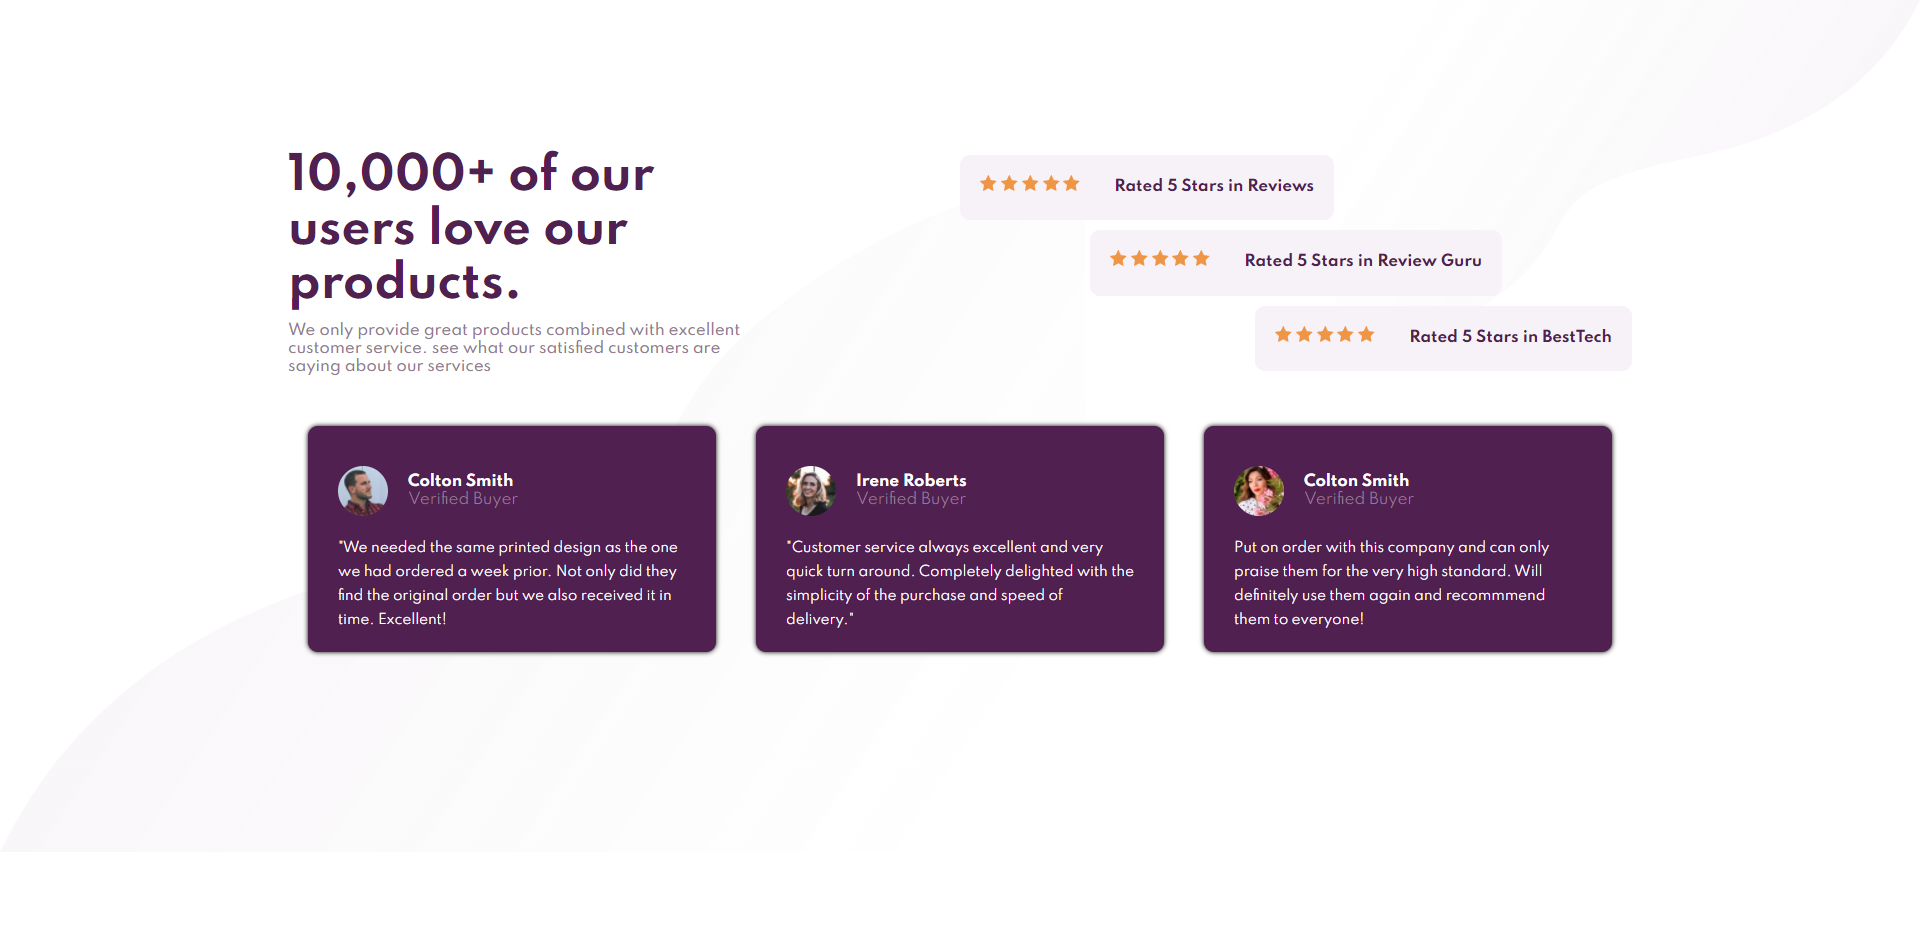
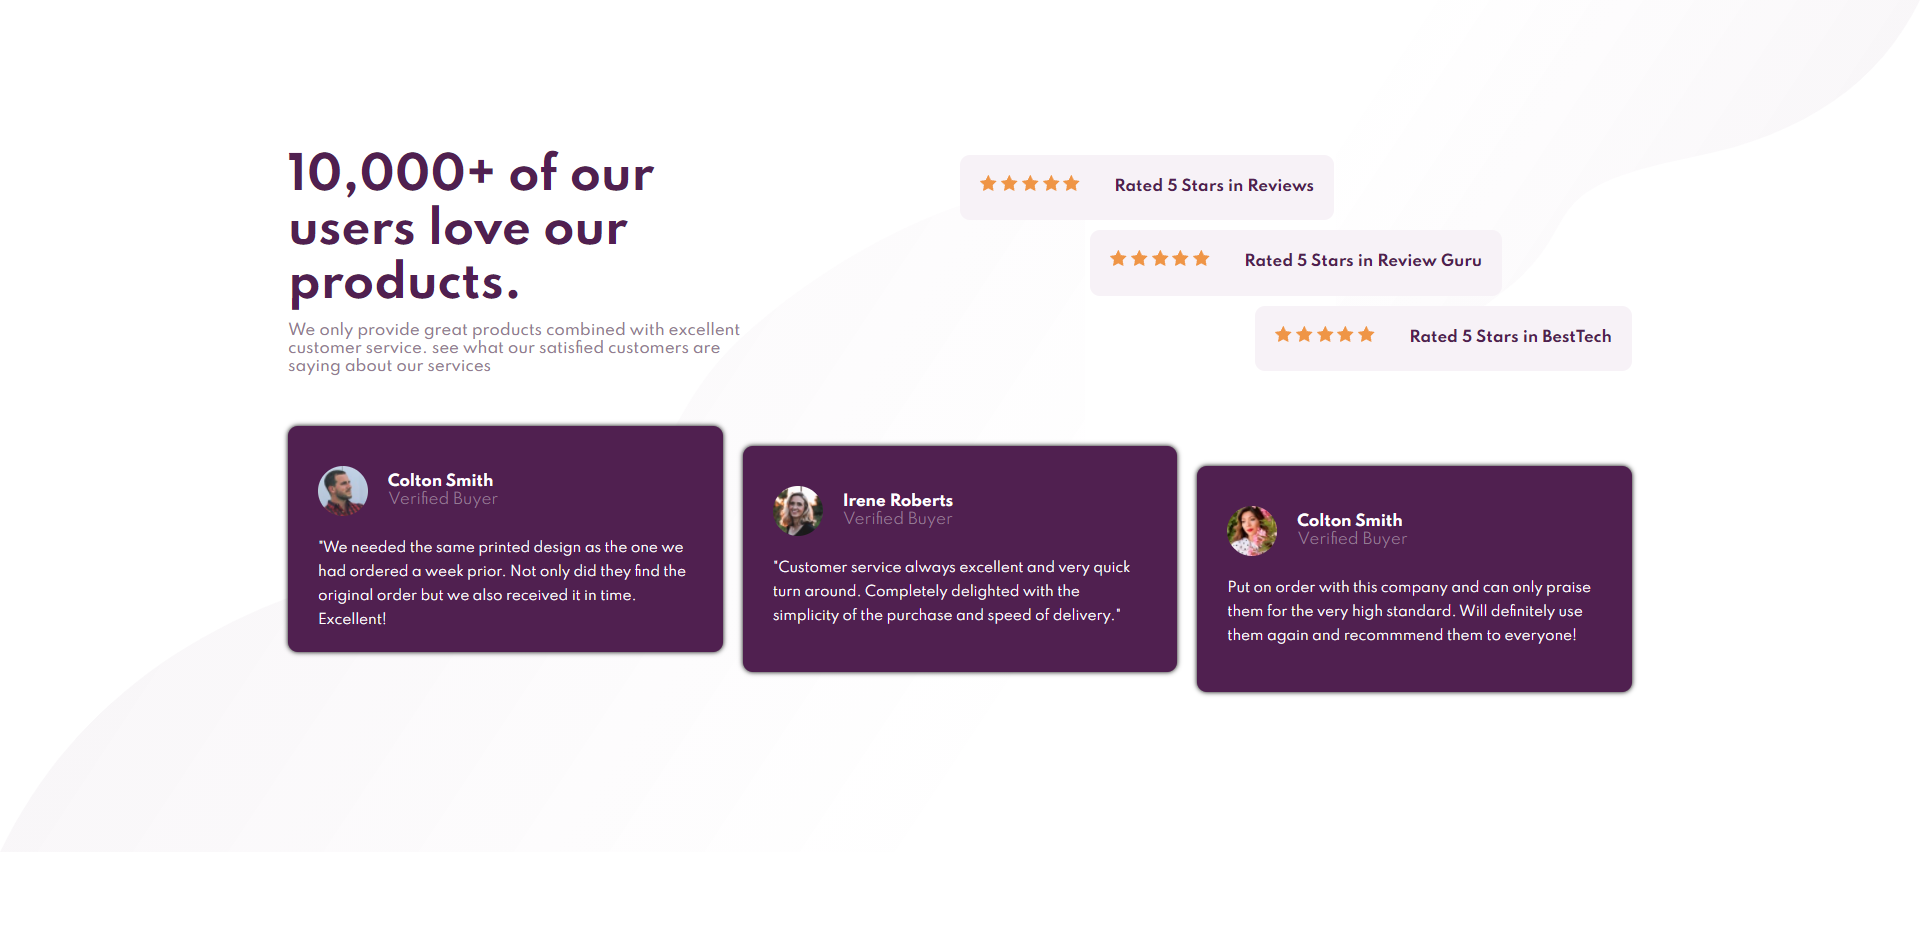
updated screenshot, redme, and minor fix on card below

Changed region(s): [[0.125, 0.4333, 0.875, 0.7428]]

diff --git a/index.html b/index.html
@@ -64,19 +64,18 @@
       </div>
     </header>
     <main>
-      <div class="card-proof">
+      <div class="card-proof proof1">
         <div class="card-holder">
           <img src="images/image-colton.jpg" alt="">
           <div class="people-name">
             <span class="name">Colton Smith</span>
             <span class="buyer">Verified Buyer</span>
-            </div>
-            
-
+          </div>
+    
         </div>
         <p>"We needed the same printed design as the one we had ordered a week prior. Not only did they find the original order but we also received it in time. Excellent!</p>
       </div>
-      <div class="card-proof">
+      <div class="card-proof proof2">
         <div class="card-holder">
           <img src="images/image-irene.jpg" alt="">
             <div class="people-name">
@@ -88,7 +87,7 @@
         </div>
         <p>"Customer service always excellent and very quick turn around. Completely delighted with the simplicity of the purchase and speed of delivery."</p>
       </div>
-      <div class="card-proof">
+      <div class="card-proof proof3">
         <div class="card-holder">
           <img src="images/image-anne.jpg" alt="">
             <div class="people-name">

diff --git a/style.css b/style.css
@@ -100,9 +100,20 @@ main .card-proof {
   box-sizing: border-box;
   background: hsl(300, 43%, 22%);
   padding: 20px 30px;
-  margin: 0px 20px;
   border-radius: 10px;
   box-shadow: 0px 0px 5px 0px black;
+}
+
+main .proof1 {
+  margin-right: 10px;
+}
+
+main .proof2 {
+  margin: 0px 10px;
+}
+
+main .proof3 {
+  margin-left: 10px;
 }
 
 .card-holder {
@@ -135,6 +146,14 @@ main .card-holder img {
 .card-proof p {
   font-size: 0.9em;
   line-height: 1.8em;
+}
+
+main .proof2 {
+  transform: translateY(20px);
+}
+
+main .proof3 {
+  transform: translateY(40px);
 }
 
 /* responsiveness */
@@ -199,5 +218,13 @@ main .card-holder img {
 
   main .card-proof {
     margin: 20px auto;
+  }
+
+  main .proof2 {
+    transform: translateY(0);
+  }
+
+  main .proof3 {
+    transform: translateY(0);
   }
 }

diff --git a/README.md b/README.md
@@ -1,91 +1,43 @@
-# Frontend Mentor - Social proof section
+## Overview
 
-![Design preview for the Social proof section coding challenge](./design/desktop-preview.jpg)
+It is a testimony/social proof project about certain services. Its still a static website nad mobile responsive!
 
-## Welcome! 👋
+### The challenge
 
-Thanks for checking out this front-end coding challenge.
-
-[Frontend Mentor](https://www.frontendmentor.io) challenges help you improve your coding skills by building realistic projects.
-
-**To do this challenge, you need a basic understanding of HTML and CSS.**
-
-## The challenge
-
-Your challenge is to build out this social proof section and get it looking as close to the design as possible.
-
-You can use any tools you like to help you complete the challenge. So if you've got something you'd like to practice, feel free to give it a go.
-
-Your users should be able to:
+Users should be able to:
 
 - View the optimal layout for the section depending on their device's screen size
 
-Want some support on the challenge? [Join our Slack community](https://www.frontendmentor.io/slack) and ask questions in the **#help** channel.
+### Screenshot
 
-## Where to find everything
+DESKTOP VIEW
+![](./screenshot.png)
 
-Your task is to build out the project to the designs inside the `/design` folder. You will find both a mobile and a desktop version of the design. 
+MOBILE VIEW
+![](./screenshot2.png)
 
-The designs are in JPG static format. Using JPGs will mean that you'll need to use your best judgment for styles such as `font-size`, `padding` and `margin`. 
+### Links
 
-If you would like the design files (we provide Sketch & Figma versions) to inspect the design in more detail, you can [subscribe as a PRO member](https://www.frontendmentor.io/pro).
+- Live Site URL: [https://quizzical-babbage-b12645.netlify.app/]
 
-You will find all the required assets in the `/images` folder. The assets are already optimized.
+## My process
 
-There is also a `style-guide.md` file containing the information you'll need, such as color palette and fonts.
+### Built with
 
-## Building your project
+- Semantic HTML5 markup
+- CSS custom properties
+- Flexbox
 
-Feel free to use any workflow that you feel comfortable with. Below is a suggested process, but do not feel like you need to follow these steps:
+### What I learned
 
-1. Initialize your project as a public repository on [GitHub](https://github.com/). Creating a repo will make it easier to share your code with the community if you need help. If you're not sure how to do this, [have a read-through of this Try Git resource](https://try.github.io/).
-2. Configure your repository to publish your code to a web address. This will also be useful if you need some help during a challenge as you can share the URL for your project with your repo URL. There are a number of ways to do this, and we provide some recommendations below.
-3. Look through the designs to start planning out how you'll tackle the project. This step is crucial to help you think ahead for CSS classes to create reusable styles.
-4. Before adding any styles, structure your content with HTML. Writing your HTML first can help focus your attention on creating well-structured content.
-5. Write out the base styles for your project, including general content styles, such as `font-family` and `font-size`.
-6. Start adding styles to the top of the page and work down. Only move on to the next section once you're happy you've completed the area you're working on.
+I become pretty good with flexbox but i still need to learn about mobile responsive design with media query, when i do the responsive design for mobile i feel like i made another code for another website, i dont know if its because im still new and dont really understand how media query works or it just be like that.
 
-## Deploying your project
+### Continued development
 
-As mentioned above, there are many ways to host your project for free. Our recommend hosts are:
+I will move on to different projects.
 
-- [GitHub Pages](https://pages.github.com/)
-- [Vercel](https://vercel.com/)
-- [Netlify](https://www.netlify.com/)
+## Author
 
-You can host your site using one of these solutions or any of our other trusted providers. [Read more about our recommended and trusted hosts](https://medium.com/frontend-mentor/frontend-mentor-trusted-hosting-providers-bf000dfebe).
+- Frontend Mentor - [@althafdaa](https://www.frontendmentor.io/profile/yourusername)
 
-## Create a custom `README.md`
-
-We strongly recommend overwriting this `README.md` with a custom one. We've provided a template inside the [`README-template.md`](./README-template.md) file in this starter code.
-
-The template provides a guide for what to add. A custom `README` will help you explain your project and reflect on your learnings. Please feel free to edit our template as much as you like.
-
-Once you've added your information to the template, delete this file and rename the `README-template.md` file to `README.md`. That will make it show up as your repository's README file.
-
-## Submitting your solution
-
-Submit your solution on the platform for the rest of the community to see. Follow our ["Complete guide to submitting solutions"](https://medium.com/frontend-mentor/a-complete-guide-to-submitting-solutions-on-frontend-mentor-ac6384162248) for tips on how to do this.
-
-Remember, if you're looking for feedback on your solution, be sure to ask questions when submitting it. The more specific and detailed you are with your questions, the higher the chance you'll get valuable feedback from the community.
-
-## Sharing your solution
-
-There are multiple places you can share your solution:
-
-1. Share your solution page in the **#finished-projects** channel of the [Slack community](https://www.frontendmentor.io/slack). 
-2. Tweet [@frontendmentor](https://twitter.com/frontendmentor) and mention **@frontendmentor**, including the repo and live URLs in the tweet. We'd love to take a look at what you've built and help share it around.
-3. Share your solution on other social channels like LinkedIn.
-4. Blog about your experience building your project. Writing about your workflow, technical choices, and talking through your code is a brilliant way to reinforce what you've learned. Great platforms to write on are [dev.to](https://dev.to/), [Hashnode](https://hashnode.com/), and [CodeNewbie](https://community.codenewbie.org/).
-
-We provide templates to help you share your solution once you've submitted it on the platform. Please do edit them and include specific questions when you're looking for feedback. 
-
-The more specific you are with your questions the more likely it is that another member of the community will give you feedback.
-
-## Got feedback for us?
-
-We love receiving feedback! We're always looking to improve our challenges and our platform. So if you have anything you'd like to mention, please email hi[at]frontendmentor[dot]io.
-
-This challenge is completely free. Please share it with anyone who will find it useful for practice.
-
-**Have fun building!** 🚀
+**Note: Delete this note and add/remove/edit lines above based on what links you'd like to share.**
